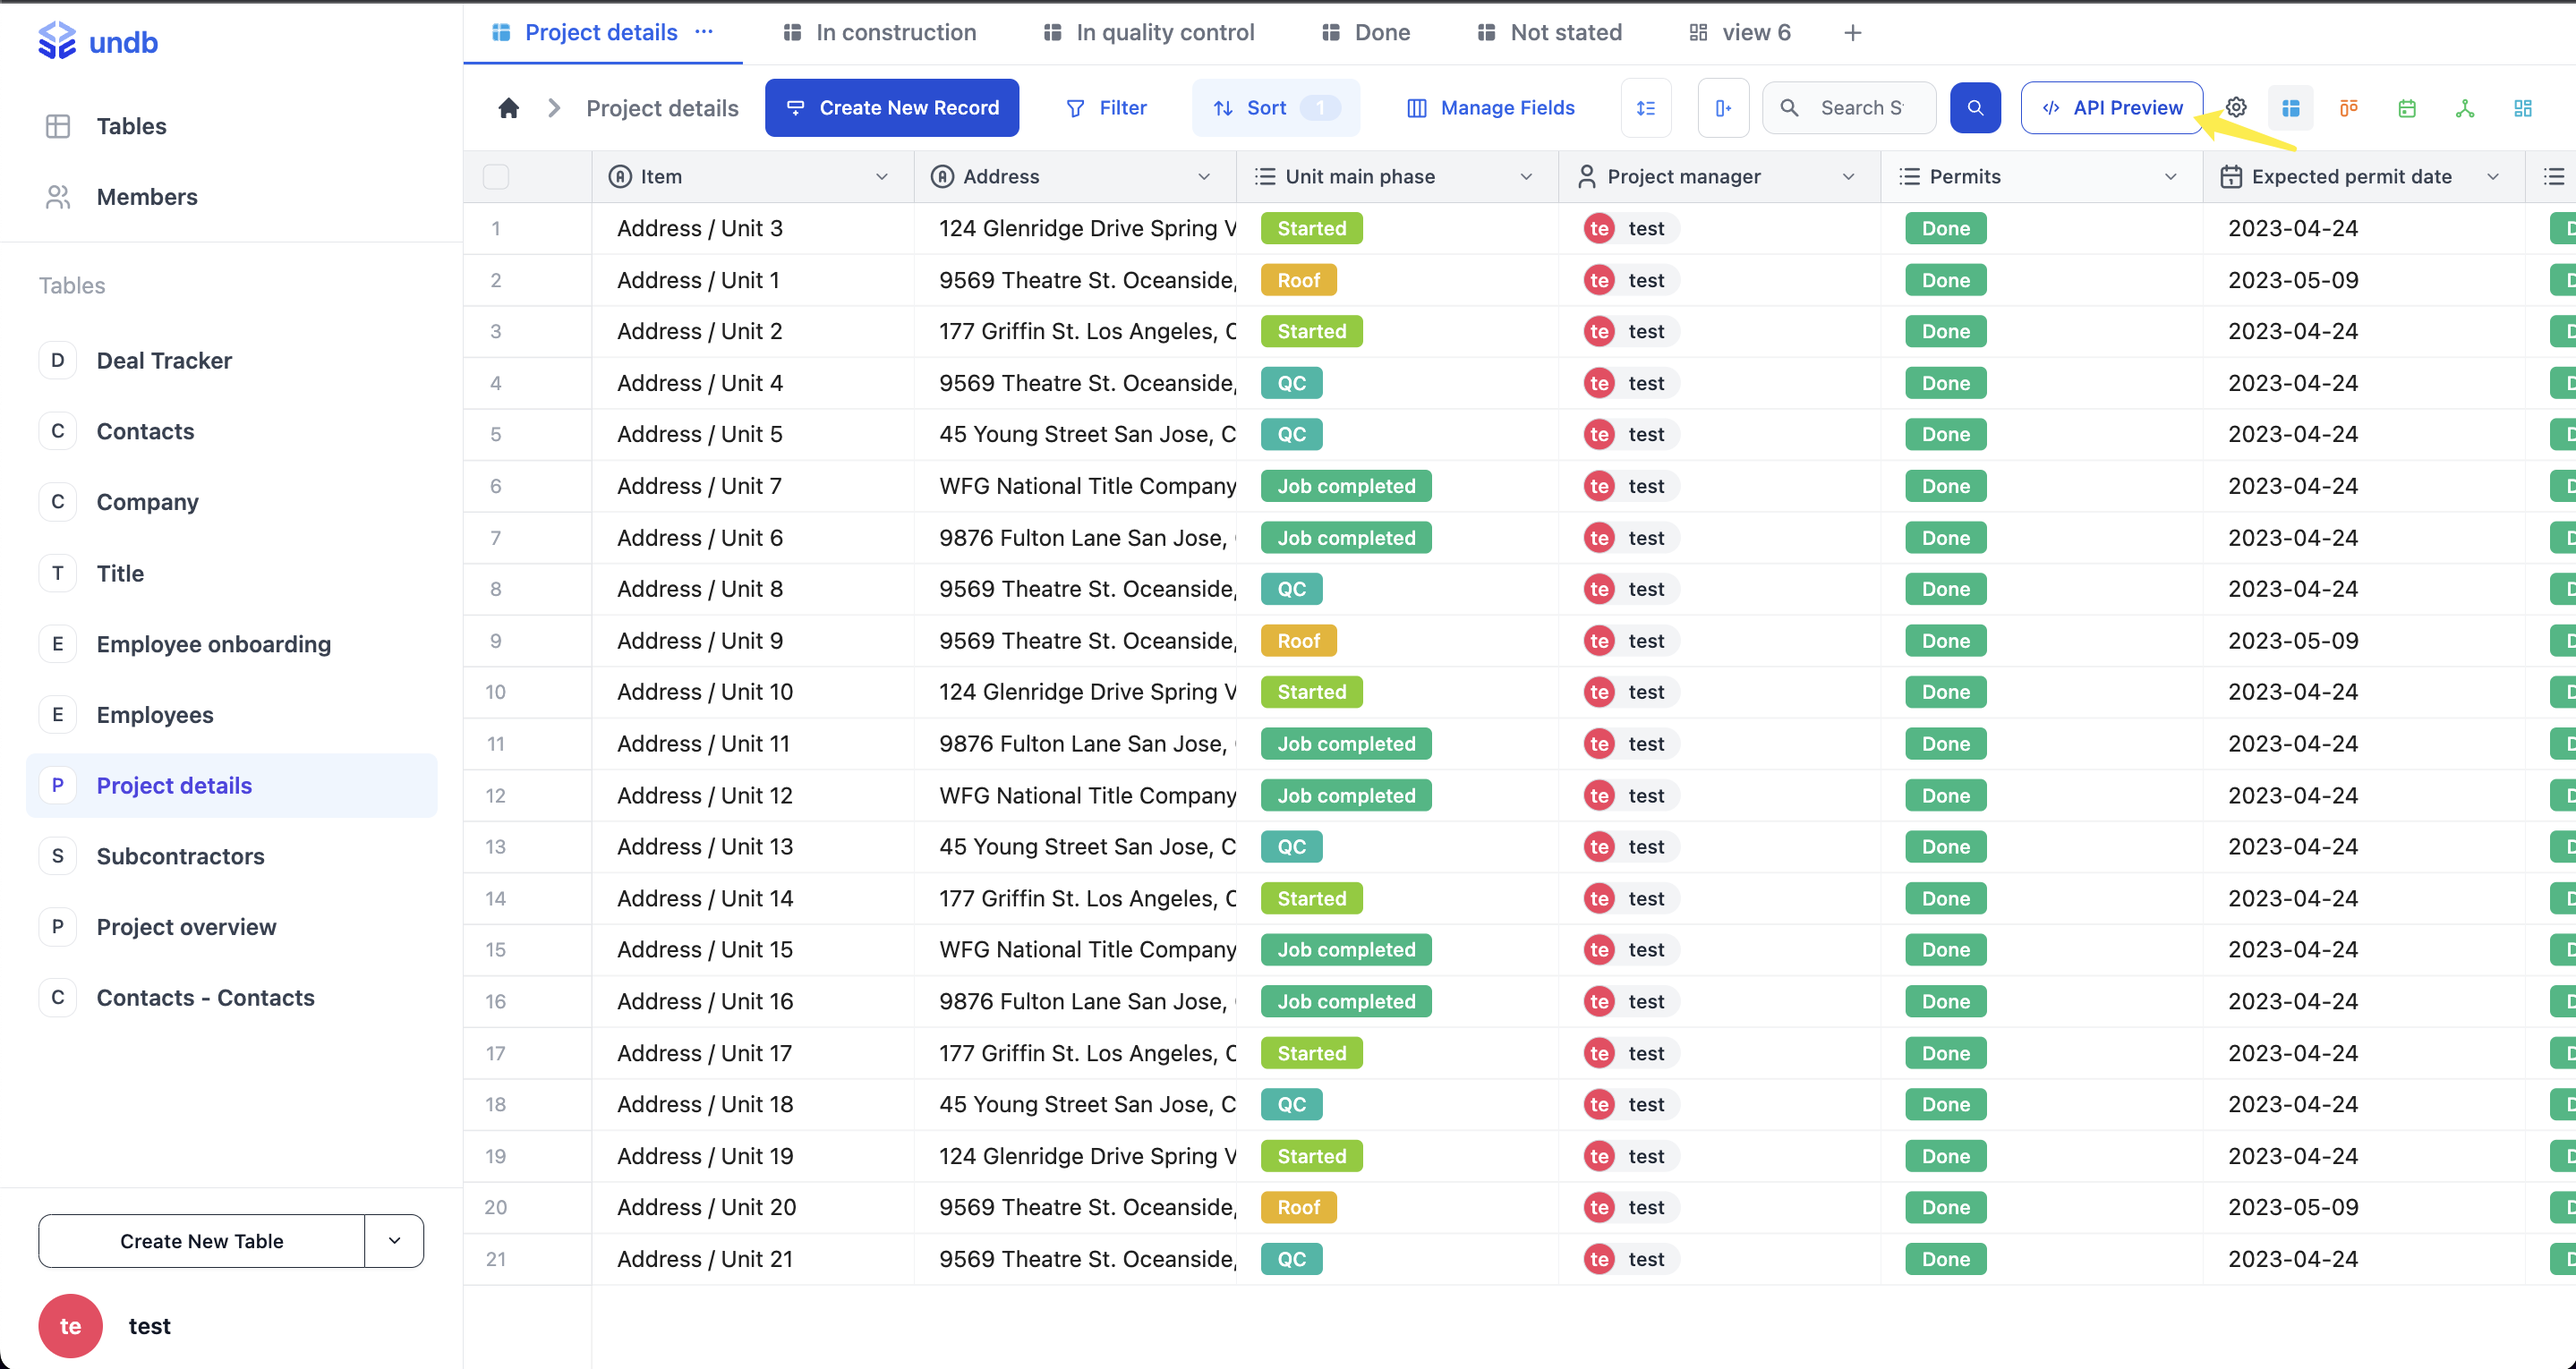
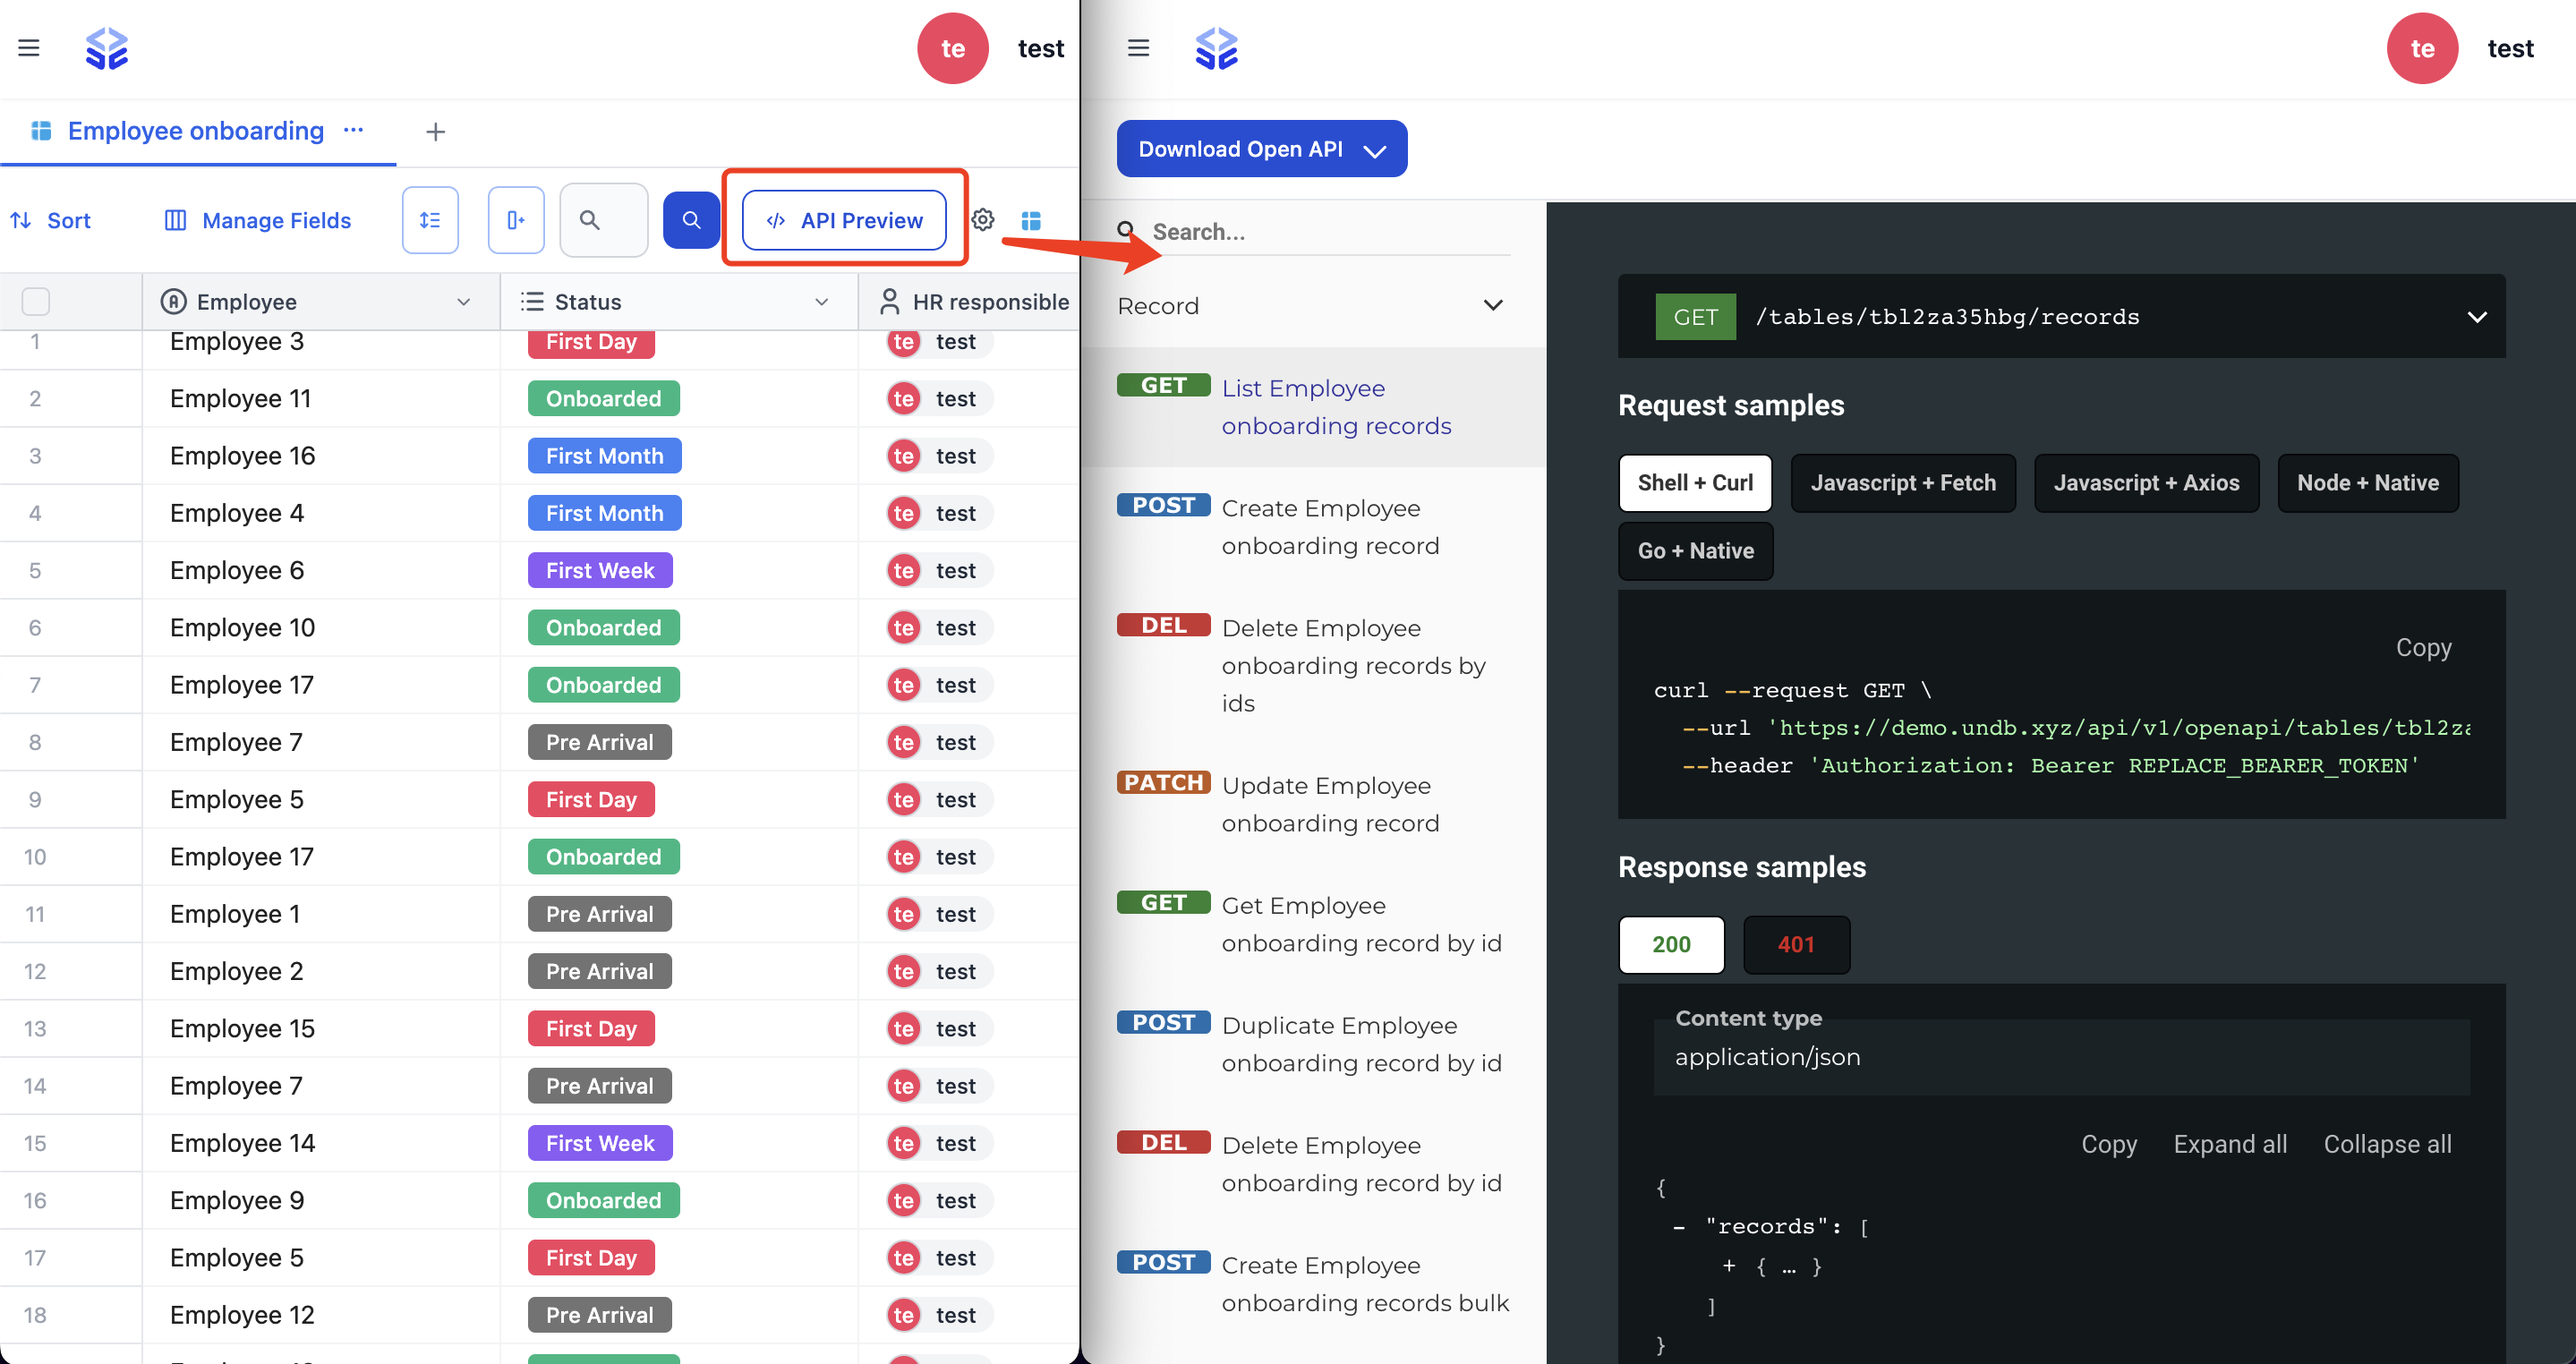
update docs

diff --git a/src/content/docs/openapi/1.openAPI.md b/src/content/docs/openapi/1.openAPI.md
@@ -7,15 +7,11 @@ description: "learn how to config Open API for undb"
 
 When a table is created in Undb, the system automatically generates and synchronizes a related OpenAPI. A 'API Preview' button is then provided at the top of the table operation column for accessing the OpenAPI view.
 
+Click on the 'API Preview' button in the left window to view the display interface of the Open API preview in the right window.
+
 ![Open API Preview](/images/api-preview.png)
 
 ## API Detail
-
-AUTHORIZATIONS:
-bearerAuth
-HTTP: bearerAuth
-HTTP Authorization Scheme: bearer
-Bearer format: JWT
 
 The system automatically generated nine types of Application Programming Interfaces (APIs).
 
@@ -31,164 +27,107 @@ The system automatically generated nine types of Application Programming Interfa
 | Create table records bulk    | POST    |
 | Update table records bulk    | PATCH   |
 
-### Request samples
+- At the API preview interface, users can view the OpenAPI created for the corresponding table, as well as request and response examples for the API.
 
-**Shell + Curl**
+![open api detail](/images/open-api-detail.png)
 
-```shell
-curl --request GET \
-  --url 'https://demo.undb.xyz/api/v1/openapi/tables/tblruubokdc/records?viewId=viw2j74tv49' \
-  --header 'Authorization: Bearer REPLACE_BEARER_TOKEN'
-```
+- The structure of the API will be automatically generated based on the corresponding table structure, as shown in the following figure.
 
-**JavaScript + Fetch**
+**Illustrating with the data table from the demo website**
 
-```javascript
-const options = {
-  method: "POST",
-  headers: {
-    Authorization: "Bearer REPLACE_BEARER_TOKEN",
-    "content-type": "application/json",
-  },
-  body: '{"id":"recnfg7rv6z","values":{"Employee":"Vincent","Title":"manager 1","Level":3,"subordinate":["recvpmpb1bv"],"Superior":"recngzo73ge"}}',
-};
+- **[Company table](https://demo.undb.xyz)**
 
-fetch(
-  "https://demo.undb.xyz/api/v1/openapi/tables/tblruubokdc/records",
-  options
-)
-  .then((response) => response.json())
-  .then((response) => console.log(response))
-  .catch((err) => console.error(err));
-```
+structure of the Table
 
-**Javascript + Axios**
+![open api detail](/images/company-get-response.png)
 
-```javascript
-import axios from "axios";
-
-const options = {
-  method: "GET",
-  url: "https://demo.undb.xyz/api/v1/openapi/tables/tblruubokdc/records",
-  params: { viewId: "viw2j74tv49" },
-  headers: { Authorization: "Bearer REPLACE_BEARER_TOKEN" },
-};
-
-axios
-  .request(options)
-  .then(function (response) {
-    console.log(response.data);
-  })
-  .catch(function (error) {
-    console.error(error);
-  });
-```
-
-**Node + Native**
-
-```javascript
-const http = require("https");
-
-const options = {
-  method: "POST",
-  hostname: "demo.undb.xyz",
-  port: null,
-  path: "/api/v1/openapi/tables/tblruubokdc/records",
-  headers: {
-    Authorization: "Bearer REPLACE_BEARER_TOKEN",
-    "content-type": "application/json",
-  },
-};
-
-const req = http.request(options, function (res) {
-  const chunks = [];
-
-  res.on("data", function (chunk) {
-    chunks.push(chunk);
-  });
-
-  res.on("end", function () {
-    const body = Buffer.concat(chunks);
-    console.log(body.toString());
-  });
-});
-
-req.write(
-  JSON.stringify({
-    id: "recnfg7rv6z",
-    values: {
-      Employee: "Vincent",
-      Title: "manager 1",
-      Level: 3,
-      subordinate: ["recvpmpb1bv"],
-      Superior: "recngzo73ge",
-    },
-  })
-);
-req.end();
-```
-
-**Go + Native**
-
-```go
-package main
-
-import (
-	"fmt"
-	"strings"
-	"net/http"
-	"io/ioutil"
-)
-
-func main() {
-
-	url := "https://demo.undb.xyz/api/v1/openapi/tables/tblruubokdc/records"
-
-	payload := strings.NewReader("{\"id\":\"recnfg7rv6z\",\"values\":{\"Employee\":\"Vincent\",\"Title\":\"manager 1\",\"Level\":3,\"subordinate\":[\"recvpmpb1bv\"],\"Superior\":\"recngzo73ge\"}}")
-
-	req, _ := http.NewRequest("POST", url, payload)
-
-	req.Header.Add("Authorization", "Bearer REPLACE_BEARER_TOKEN")
-	req.Header.Add("content-type", "application/json")
-
-	res, _ := http.DefaultClient.Do(req)
-
-	defer res.Body.Close()
-	body, _ := ioutil.ReadAll(res.Body)
-
-	fmt.Println(res)
-	fmt.Println(string(body))
-
-}
-```
-
-### Response samples
-
-**401**
+structure of the API
 
 ```json
+// get list Company records
 {
-  "message": "Unauthorized",
-  "statusCode": "401"
+  "records": [
+    {
+      "id": "rec16l53qwc",
+      "Company": "Company Name 1",
+      "createdAt": "2023-05-20T16:10:44.000Z",
+      "createdBy": {
+        "id": "usrzvhv8srb",
+        "username": "wanshufen",
+        "avatar": null,
+        "color": "blue"
+      },
+      "updatedAt": "2023-05-20T16:25:06.000Z",
+      "updatedBy": {
+        "id": "usrzvhv8srb",
+        "username": "wanshufen",
+        "avatar": null,
+        "color": "blue"
+      },
+      "Contacts": [
+        {
+          "id": "recqymnue1f",
+          "value": ["Ambrose"]
+        }
+      ],
+      "Title": [
+        {
+          "id": "rec2qr07yes",
+          "value": ["CEO"]
+        }
+      ],
+      "Title Name": "CEO"
+    }
+  ]
 }
 ```
 
-**200**
+- **[Employees table](https://demo.undb.xyz)**
 
-If it is a query request, it will return:
+structure of the table
+
+![api response](/images/Employee-get-response.png)
+
+structure of the API
 
 ```json
+// get list employees records
+
 {
-    "records": [
-        {....}
-    ]
+  "records": [
+    {
+      "id": "recm1kabi9l",
+      "Employee": "Vincent",
+      "Title": "manager 1",
+      "createdAt": "2023-05-21T08:54:22.000Z",
+      "createdBy": {
+        "id": "usrzvhv8srb",
+        "username": "wanshufen",
+        "avatar": null,
+        "color": "blue"
+      },
+      "updatedAt": "2023-05-27T18:56:08.000Z",
+      "updatedBy": {
+        "id": "usrbuajh55q",
+        "username": "test",
+        "avatar": null,
+        "color": "rose"
+      },
+      "Level": 3,
+      "Employee ID": 1,
+      "subordinate": [
+        {
+          "id": "recvpmpb1bv",
+          "value": ["Ford"]
+        }
+      ],
+      "Superior": {
+        "id": "recngzo73ge",
+        "value": ["Scott"]
+      }
+    }
+  ]
 }
 ```
 
-If it is a mutation request, the return value will be:
-
-```json
-{
-  "status": "success"
-}
-```
+> **_*Based on the example above, the interface generated for different data tables will also be different.*_**

diff --git a/src/content/docs/openapi/2.export.md b/src/content/docs/openapi/2.export.md
@@ -1,6 +1,6 @@
 ---
-title: 'Export'
-description: 'learn about export open api spec and import to other api clients'
+title: "Export"
+description: "learn about export open api spec and import to other api clients"
 ---
 
 ## Export
@@ -13,17 +13,25 @@ You can choose how to download the API by clicking on the "Download OpenAPI" but
 
 ![click download open api](/images/click-Download-Open-API.png)
 
+### copy auth token
+
+When making an API request, it is necessary to add the Authorization information to the request headers, in which the auth Token of the system user should be filled in as bearerAuth.
+
+The following GIF animation demonstrates how to obtain an auth token. Please refer to it:
+
+![copy auth token](/images/copy-auth-token.gif)
+
 ### Postman
 
 You can choose to download the JSON format file in "Postman Collections" below.
 
-copy auth token.
-
-![copy auth token](/images/copy-auth-token.gif)
-
 Please import the file downloaded just now directly into the Postman application, and set the bearer token as the copied user token in this collection.
 
 ![postman](/images/postman.png)
+
+The following GIF demonstrates the steps of the entire operation process.
+
+![postman](/images/postman.gif)
 
 ### Open API Spec
 
